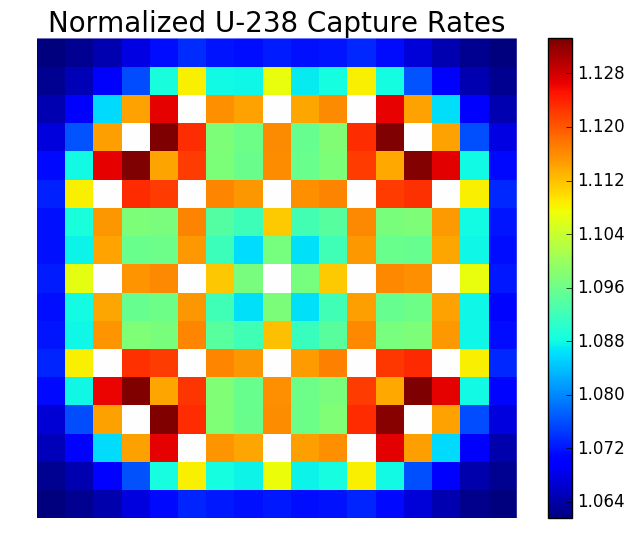
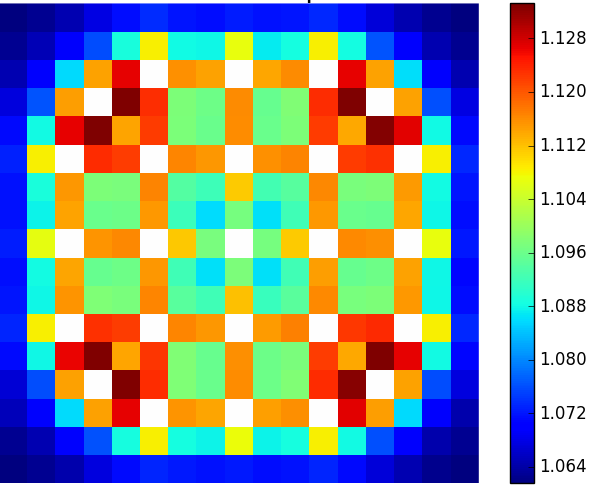
Removed titles from reference reaction rate plots

diff --git a/benchmarks.tex b/benchmarks.tex
@@ -133,25 +133,27 @@ A series of OpenMC simulations was used to calculate reference eigenvalues, pin-
 
 \begin{figure*}[h!]
 \centering
-\begin{subfigure}{0.45\textwidth}
-  \includegraphics[width=\linewidth]{figures/assembly/fission-rates}
+\begin{subfigure}{0.4\textwidth}
+  \centering
+  \includegraphics[width=0.8\linewidth]{figures/assembly/fission-rates}
   \caption{}
   \label{fig:fiss-assm}
 \end{subfigure}%
-\begin{subfigure}{0.45\textwidth}
-  \includegraphics[width=\linewidth]{figures/assembly/capture-rates}
+\begin{subfigure}{0.4\textwidth}
+  \centering
+  \includegraphics[width=0.8\linewidth]{figures/assembly/capture-rates}
   \caption{}
   \label{fig:capt-assm}
 \end{subfigure}
-\begin{subfigure}{0.45\textwidth}
+\begin{subfigure}{0.4\textwidth}
   \centering
-  \includegraphics[width=\linewidth]{figures/reflector/fission-rates}
+  \includegraphics[width=0.8\linewidth]{figures/reflector/fission-rates}
   \caption{}
   \label{fig:fiss-reflector}
 \end{subfigure}%
-\begin{subfigure}{0.45\textwidth}
+\begin{subfigure}{0.4\textwidth}
   \centering
-  \includegraphics[width=\linewidth]{figures/reflector/capture-rates}
+  \includegraphics[width=0.8\linewidth]{figures/reflector/capture-rates}
   \caption{}
   \label{fig:capt-reflector}
 \end{subfigure}
